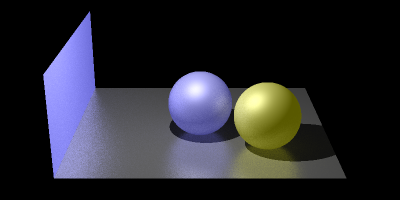
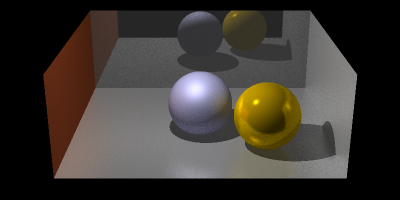
add object intrinsic color

diff --git a/run.py b/run.py
@@ -4,16 +4,20 @@ from raytracer import Camera, Light, Rect, Sphere, Scene
 
 scene = Scene(
     background = [0, 0, 0.],
-    ambient = [0.7, 0.7, 0.7],
+    ambient = [0.15, 0.15, 0.15],
     objects = [
         Rect([80, 80, 30], 140, 60, [1,0,0], [0,-1,0],
-                ambient=[0.3, 0.3, 0.9], diffuse=0.5, specular=0, specular_n=0),
+            intrinsic=[0.9, 0.4, 0.2], diffuse=0.3, specular=0, specular_n=0),
         Rect([80, 0, 0], 160, 140, [0,1,0], [0,0,1],
-            ambient=[0.1, 0.1, 0.1], diffuse=0.3, specular=0.9, specular_n=50),
+            intrinsic=[1, 1, 1], diffuse=0.3, specular=0.8, specular_n=50),
+        Rect([80, -80, 30], 140, 60, [1,0,0], [0,-1,0],
+            intrinsic=[1, 1, 1], diffuse=0.3, specular=0.8, specular_n=50),
+        Rect([150, 0, 30], 160, 60, [0,1,0], [1,0,0],
+            intrinsic=[1., 1., 1.], diffuse=0., specular=0.9, specular_n=1e5),
         Sphere([70, 00, 20], 20, 
-            ambient=[0.3, 0.3, 0.7], diffuse=0.5, specular=0.3, specular_n=4),
+            intrinsic=[0.8, 0.8, 1], diffuse=0.8, specular=0.3, specular_n=4),
         Sphere([50, -40, 20], 20, 
-            ambient=[0.5, 0.5, 0], diffuse=0.5, specular=0.3, specular_n=4)
+            intrinsic=[1, 0.8, 0.0], diffuse=0.6, specular=0.9, specular_n=1e2)
 ],
     lights = [Light([30, 20, 100], [1, 1, 1])]
 )

diff --git a/raytracer.py b/raytracer.py
@@ -27,15 +27,13 @@ class Light():
         self.color = torch.tensor(color)
 
 class Object:
-    def __init__(self, ambient, diffuse, specular, specular_n):
-        self.ambient = torch.tensor(ambient)
+    def __init__(self, intrinsic, diffuse, specular, specular_n):
+        self.intrinsic = torch.tensor(intrinsic)
         self.diffuse = torch.tensor(diffuse)
         self.specular = torch.tensor(specular)
         self.specular_n = torch.tensor(specular_n)
     
     def shade(self, ray, hit_dist, scene, level):
-        ambient = self.ambient * scene.ambient
-
         light_center = [light.center for light in scene.lights]
         light_center = torch.stack(light_center, dim=0).unsqueeze(1)
         light_color = [light.color for light in scene.lights]
@@ -92,12 +90,13 @@ class Object:
 
 
         color = torch.zeros([ray.len, 3])
-        color += ambient
+        color += scene.ambient
         color += diffuse.sum(dim=0)
         color += specular.sum(dim=0)
         if(level > 1):
             color += diffuse_traced
             color += specular_traced
+        color *= self.intrinsic
         return color
 
 class Rect(Object):
